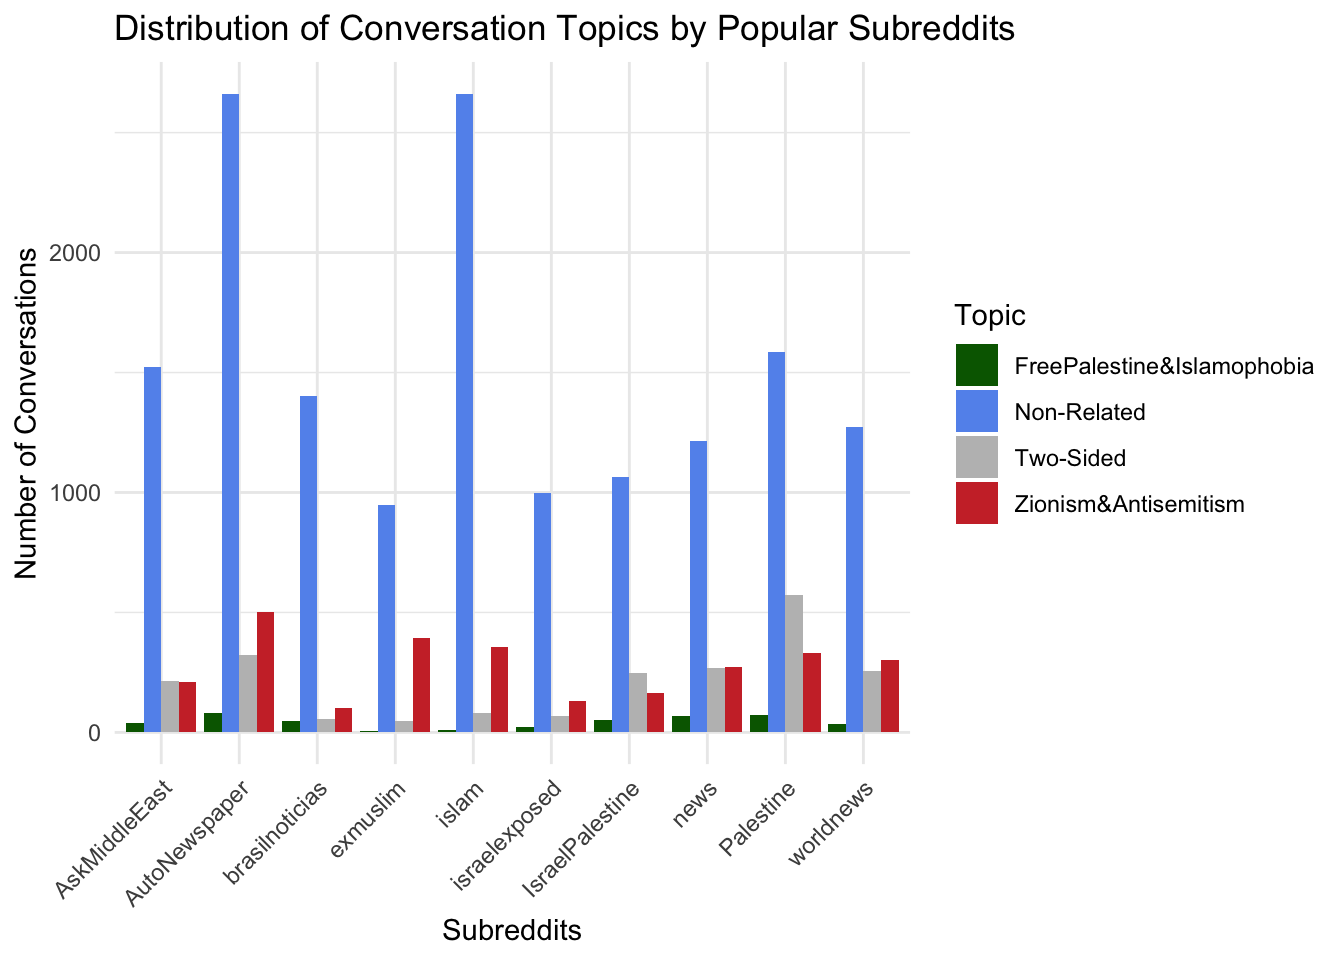
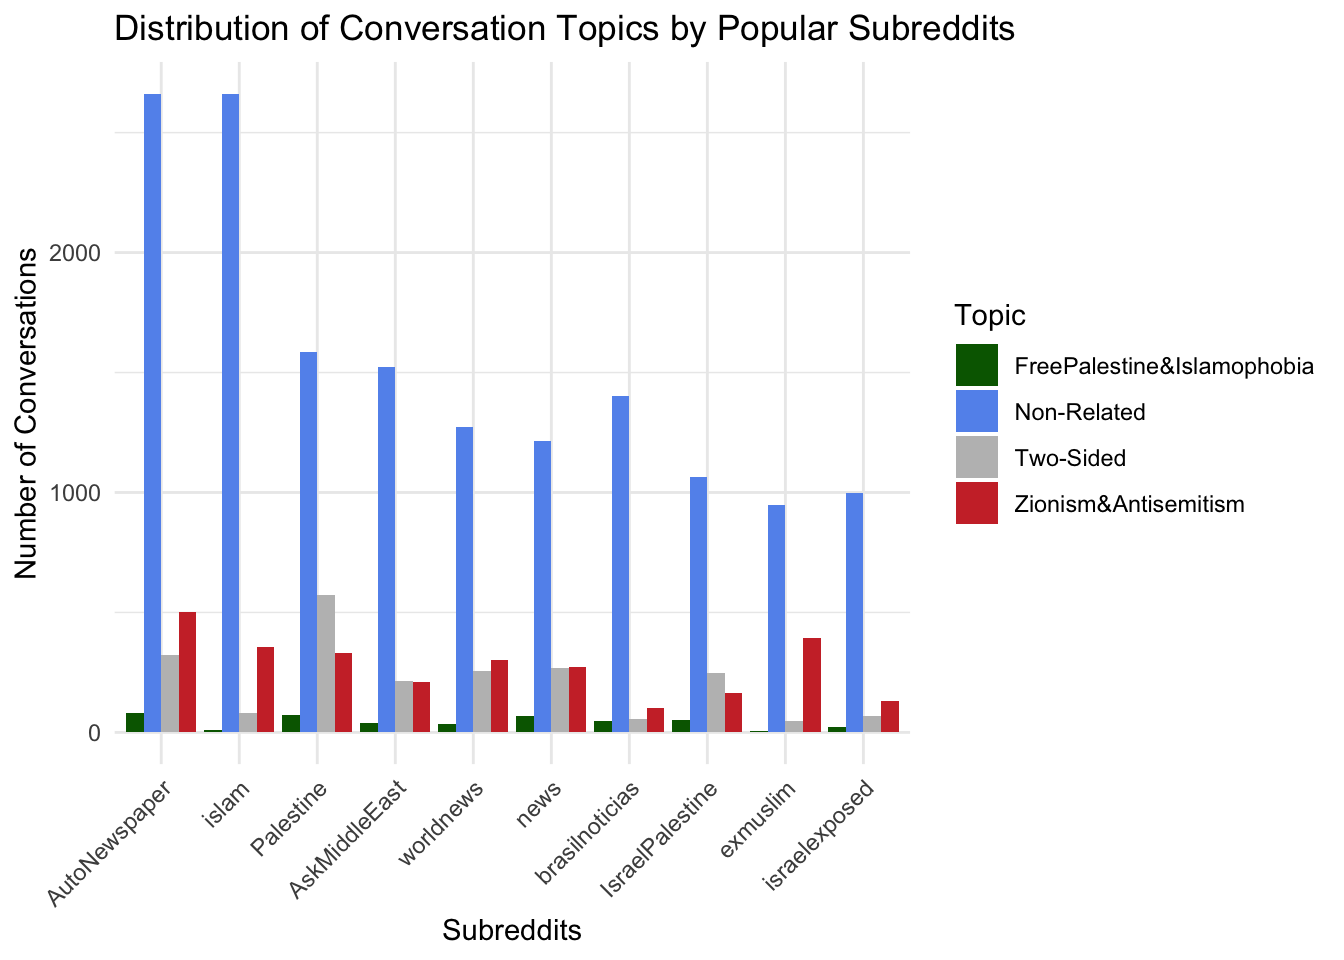
refactor: content

diff --git a/docs/results.html b/docs/results.html
@@ -324,7 +324,7 @@ pre > code.sourceCode > span > a:first-child::before { text-decoration: underlin
 <p>Overall, both submissions (dark blue) and unique users (light blue) show a dramatic rise starting October 7, 2023, corresponding to the Hamas surprise attack on Israel. The increase in unique users suggests the event attracted a broader audience, including those who might not typically engage with Israel-Palestine discussions.</p>
 <p>Submission activity remained elevated through October, even as unique user counts started to stabilize. This suggests that while overall participation plateaued, a subset of highly engaged users continued driving discussions.</p>
 <p>Both metrics begin to decline post-November, reflecting reduced activity as public interest waned, likely due to the normalization of the conflict or shifts in media coverage. The difference in the slopes of the two lines indicates that while fewer unique users contributed to the conversation, those who remained were responsible for a substantial number of posts.</p>
-<p>Overall, both submissions (red) and unique users (blue) show a dramatic rise starting October 7, 2023, corresponding to the Hamas surprise attack on Israel. The increase in unique users suggests the event attracted a broader audience, including those who might not typically engage with Israel-Palestine discussions.</p>
+<p>Overall, both submissions (dark blue) and unique users (light blue) show a dramatic rise starting October 7, 2023, corresponding to the Hamas surprise attack on Israel. The increase in unique users suggests the event attracted a broader audience, including those who might not typically engage with Israel-Palestine discussions.</p>
 <p>Submission activity remained elevated through October, even as unique user counts started to stabilize. This suggests that while overall participation plateaued, a subset of highly engaged users continued driving discussions.</p>
 <p>Both metrics begin to decline post-November, reflecting reduced activity as public interest waned, likely due to the normalization of the conflict or shifts in media coverage. The difference in the slopes of the two lines indicates that while fewer unique users contributed to the conversation, those who remained were responsible for a substantial number of posts.</p>
 </section>
@@ -546,7 +546,7 @@ pre > code.sourceCode > span > a:first-child::before { text-decoration: underlin
 </div>
 <p>The majority of submissions receive fewer than 5 comments, as evidenced by the sharp drop in frequency for higher comment counts. This indicates that most posts generate limited discussion, reflecting either lower visibility or less engaging content.</p>
 <p>A small but significant portion of submissions receives 30 or more comments, suggesting highly engaging or polarizing content that sparks extended discussions. This long tail reflects the disproportionate impact of certain posts in driving conversations.</p>
-<p>We used a logarithmic scale on the y-axis to highlight the exponential drop in frequency as comment counts increase. Without this transformation, the disparity between low-comment and high-comment submissions would be even more pronounced.</p>
+<p>We used a logarithmic scale on the y-axis to highlight the exponential drop in frequency as comment counts increase. Without this transformation, the disparity between low-comment and high-comment submissions would be less pronounced.</p>
 </section>
 <section id="finding-largest-subreddits-by-submissions-and-comments-count" class="level3" data-number="3.2.9">
 <h3 data-number="3.2.9" class="anchored" data-anchor-id="finding-largest-subreddits-by-submissions-and-comments-count"><span class="header-section-number">3.2.9</span> Finding Largest Subreddits by Submissions and Comments Count</h3>
@@ -798,22 +798,23 @@ pre > code.sourceCode > span > a:first-child::before { text-decoration: underlin
 <span id="cb17-7"><a href="#cb17-7" aria-hidden="true" tabindex="-1"></a>    freepalestine_islamophobia <span class="sc">==</span> <span class="dv">1</span> <span class="sc">&amp;</span> zionism_antisemitism <span class="sc">==</span> <span class="dv">1</span> <span class="sc">~</span> <span class="st">"Two-Sided"</span></span>
 <span id="cb17-8"><a href="#cb17-8" aria-hidden="true" tabindex="-1"></a>  )) <span class="sc">%&gt;%</span></span>
 <span id="cb17-9"><a href="#cb17-9" aria-hidden="true" tabindex="-1"></a>  <span class="fu">group_by</span>(subreddit, subset) <span class="sc">%&gt;%</span></span>
-<span id="cb17-10"><a href="#cb17-10" aria-hidden="true" tabindex="-1"></a>  <span class="fu">summarise</span>(<span class="at">count =</span> <span class="fu">n</span>(), <span class="at">.groups =</span> <span class="st">'drop'</span>)</span>
-<span id="cb17-11"><a href="#cb17-11" aria-hidden="true" tabindex="-1"></a></span>
-<span id="cb17-12"><a href="#cb17-12" aria-hidden="true" tabindex="-1"></a><span class="fu">ggplot</span>(subsets, <span class="fu">aes</span>(<span class="at">x =</span> subreddit, <span class="at">y =</span> count, <span class="at">fill =</span> subset)) <span class="sc">+</span></span>
-<span id="cb17-13"><a href="#cb17-13" aria-hidden="true" tabindex="-1"></a>  <span class="fu">geom_bar</span>(<span class="at">stat =</span> <span class="st">"identity"</span>, <span class="at">position =</span> <span class="st">"dodge"</span>) <span class="sc">+</span></span>
-<span id="cb17-14"><a href="#cb17-14" aria-hidden="true" tabindex="-1"></a>  <span class="fu">labs</span>(<span class="at">title =</span> <span class="st">"Distribution of Conversation Topics by Popular Subreddits"</span>,</span>
-<span id="cb17-15"><a href="#cb17-15" aria-hidden="true" tabindex="-1"></a>       <span class="at">x =</span> <span class="st">"Subreddits"</span>,</span>
-<span id="cb17-16"><a href="#cb17-16" aria-hidden="true" tabindex="-1"></a>       <span class="at">y =</span> <span class="st">"Number of Conversations"</span>,</span>
-<span id="cb17-17"><a href="#cb17-17" aria-hidden="true" tabindex="-1"></a>       <span class="at">fill =</span> <span class="st">"Topic"</span>) <span class="sc">+</span></span>
-<span id="cb17-18"><a href="#cb17-18" aria-hidden="true" tabindex="-1"></a>  <span class="fu">scale_fill_manual</span>(<span class="at">values =</span> <span class="fu">c</span>(</span>
-<span id="cb17-19"><a href="#cb17-19" aria-hidden="true" tabindex="-1"></a>    <span class="st">"FreePalestine&amp;Islamophobia"</span> <span class="ot">=</span> <span class="st">"darkgreen"</span>,</span>
-<span id="cb17-20"><a href="#cb17-20" aria-hidden="true" tabindex="-1"></a>    <span class="st">"Zionism&amp;Antisemitism"</span> <span class="ot">=</span> <span class="st">"brown3"</span>,</span>
-<span id="cb17-21"><a href="#cb17-21" aria-hidden="true" tabindex="-1"></a>    <span class="st">"Non-Related"</span> <span class="ot">=</span> <span class="st">"cornflowerblue"</span>,</span>
-<span id="cb17-22"><a href="#cb17-22" aria-hidden="true" tabindex="-1"></a>    <span class="st">"Two-Sided"</span> <span class="ot">=</span> <span class="st">"gray"</span></span>
-<span id="cb17-23"><a href="#cb17-23" aria-hidden="true" tabindex="-1"></a>  )) <span class="sc">+</span></span>
-<span id="cb17-24"><a href="#cb17-24" aria-hidden="true" tabindex="-1"></a>  <span class="fu">theme_minimal</span>() <span class="sc">+</span></span>
-<span id="cb17-25"><a href="#cb17-25" aria-hidden="true" tabindex="-1"></a>  <span class="fu">theme</span>(<span class="at">axis.text.x =</span> <span class="fu">element_text</span>(<span class="at">angle =</span> <span class="dv">45</span>, <span class="at">hjust =</span> <span class="dv">1</span>))</span></code><button title="Copy to Clipboard" class="code-copy-button"><i class="bi"></i></button></pre></div>
+<span id="cb17-10"><a href="#cb17-10" aria-hidden="true" tabindex="-1"></a>  <span class="fu">summarise</span>(<span class="at">count =</span> <span class="fu">n</span>(), <span class="at">.groups =</span> <span class="st">'drop'</span>) <span class="sc">%&gt;%</span></span>
+<span id="cb17-11"><a href="#cb17-11" aria-hidden="true" tabindex="-1"></a>  <span class="fu">mutate</span>(<span class="at">subreddit =</span> <span class="fu">reorder</span>(subreddit, <span class="sc">-</span>count, sum))</span>
+<span id="cb17-12"><a href="#cb17-12" aria-hidden="true" tabindex="-1"></a></span>
+<span id="cb17-13"><a href="#cb17-13" aria-hidden="true" tabindex="-1"></a><span class="fu">ggplot</span>(subsets, <span class="fu">aes</span>(<span class="at">x =</span> subreddit, <span class="at">y =</span> count, <span class="at">fill =</span> subset)) <span class="sc">+</span></span>
+<span id="cb17-14"><a href="#cb17-14" aria-hidden="true" tabindex="-1"></a>  <span class="fu">geom_bar</span>(<span class="at">stat =</span> <span class="st">"identity"</span>, <span class="at">position =</span> <span class="st">"dodge"</span>) <span class="sc">+</span></span>
+<span id="cb17-15"><a href="#cb17-15" aria-hidden="true" tabindex="-1"></a>  <span class="fu">labs</span>(<span class="at">title =</span> <span class="st">"Distribution of Conversation Topics by Popular Subreddits"</span>,</span>
+<span id="cb17-16"><a href="#cb17-16" aria-hidden="true" tabindex="-1"></a>       <span class="at">x =</span> <span class="st">"Subreddits"</span>,</span>
+<span id="cb17-17"><a href="#cb17-17" aria-hidden="true" tabindex="-1"></a>       <span class="at">y =</span> <span class="st">"Number of Conversations"</span>,</span>
+<span id="cb17-18"><a href="#cb17-18" aria-hidden="true" tabindex="-1"></a>       <span class="at">fill =</span> <span class="st">"Topic"</span>) <span class="sc">+</span></span>
+<span id="cb17-19"><a href="#cb17-19" aria-hidden="true" tabindex="-1"></a>  <span class="fu">scale_fill_manual</span>(<span class="at">values =</span> <span class="fu">c</span>(</span>
+<span id="cb17-20"><a href="#cb17-20" aria-hidden="true" tabindex="-1"></a>    <span class="st">"FreePalestine&amp;Islamophobia"</span> <span class="ot">=</span> <span class="st">"darkgreen"</span>,</span>
+<span id="cb17-21"><a href="#cb17-21" aria-hidden="true" tabindex="-1"></a>    <span class="st">"Zionism&amp;Antisemitism"</span> <span class="ot">=</span> <span class="st">"brown3"</span>,</span>
+<span id="cb17-22"><a href="#cb17-22" aria-hidden="true" tabindex="-1"></a>    <span class="st">"Non-Related"</span> <span class="ot">=</span> <span class="st">"cornflowerblue"</span>,</span>
+<span id="cb17-23"><a href="#cb17-23" aria-hidden="true" tabindex="-1"></a>    <span class="st">"Two-Sided"</span> <span class="ot">=</span> <span class="st">"gray"</span></span>
+<span id="cb17-24"><a href="#cb17-24" aria-hidden="true" tabindex="-1"></a>  )) <span class="sc">+</span></span>
+<span id="cb17-25"><a href="#cb17-25" aria-hidden="true" tabindex="-1"></a>  <span class="fu">theme_minimal</span>() <span class="sc">+</span></span>
+<span id="cb17-26"><a href="#cb17-26" aria-hidden="true" tabindex="-1"></a>  <span class="fu">theme</span>(<span class="at">axis.text.x =</span> <span class="fu">element_text</span>(<span class="at">angle =</span> <span class="dv">45</span>, <span class="at">hjust =</span> <span class="dv">1</span>))</span></code><button title="Copy to Clipboard" class="code-copy-button"><i class="bi"></i></button></pre></div>
 </details>
 <div class="cell-output-display">
 <div>
@@ -835,21 +836,22 @@ pre > code.sourceCode > span > a:first-child::before { text-decoration: underlin
 <span id="cb18-7"><a href="#cb18-7" aria-hidden="true" tabindex="-1"></a>    freepalestine_islamophobia <span class="sc">==</span> <span class="dv">1</span> <span class="sc">&amp;</span> zionism_antisemitism <span class="sc">==</span> <span class="dv">1</span> <span class="sc">~</span> <span class="st">"Two-Sided"</span></span>
 <span id="cb18-8"><a href="#cb18-8" aria-hidden="true" tabindex="-1"></a>  )) <span class="sc">%&gt;%</span></span>
 <span id="cb18-9"><a href="#cb18-9" aria-hidden="true" tabindex="-1"></a>  <span class="fu">group_by</span>(subreddit, subset) <span class="sc">%&gt;%</span></span>
-<span id="cb18-10"><a href="#cb18-10" aria-hidden="true" tabindex="-1"></a>  <span class="fu">summarise</span>(<span class="at">count =</span> <span class="fu">n</span>(), <span class="at">.groups =</span> <span class="st">'drop'</span>)</span>
-<span id="cb18-11"><a href="#cb18-11" aria-hidden="true" tabindex="-1"></a></span>
-<span id="cb18-12"><a href="#cb18-12" aria-hidden="true" tabindex="-1"></a><span class="fu">ggplot</span>(subsets, <span class="fu">aes</span>(<span class="at">x =</span> subreddit, <span class="at">y =</span> count, <span class="at">fill =</span> subset)) <span class="sc">+</span></span>
-<span id="cb18-13"><a href="#cb18-13" aria-hidden="true" tabindex="-1"></a>  <span class="fu">geom_bar</span>(<span class="at">stat =</span> <span class="st">"identity"</span>, <span class="at">position =</span> <span class="st">"dodge"</span>) <span class="sc">+</span></span>
-<span id="cb18-14"><a href="#cb18-14" aria-hidden="true" tabindex="-1"></a>  <span class="fu">labs</span>(<span class="at">title =</span> <span class="st">"Distribution of Conversation Topics by Popular Subreddits"</span>,</span>
-<span id="cb18-15"><a href="#cb18-15" aria-hidden="true" tabindex="-1"></a>       <span class="at">x =</span> <span class="st">"Subreddits"</span>,</span>
-<span id="cb18-16"><a href="#cb18-16" aria-hidden="true" tabindex="-1"></a>       <span class="at">y =</span> <span class="st">"Number of Conversations"</span>,</span>
-<span id="cb18-17"><a href="#cb18-17" aria-hidden="true" tabindex="-1"></a>       <span class="at">fill =</span> <span class="st">"Topic"</span>) <span class="sc">+</span></span>
-<span id="cb18-18"><a href="#cb18-18" aria-hidden="true" tabindex="-1"></a>  <span class="fu">scale_fill_manual</span>(<span class="at">values =</span> <span class="fu">c</span>(</span>
-<span id="cb18-19"><a href="#cb18-19" aria-hidden="true" tabindex="-1"></a>    <span class="st">"FreePalestine&amp;Islamophobia"</span> <span class="ot">=</span> <span class="st">"darkgreen"</span>,</span>
-<span id="cb18-20"><a href="#cb18-20" aria-hidden="true" tabindex="-1"></a>    <span class="st">"Zionism&amp;Antisemitism"</span> <span class="ot">=</span> <span class="st">"brown3"</span>,</span>
-<span id="cb18-21"><a href="#cb18-21" aria-hidden="true" tabindex="-1"></a>    <span class="st">"Two-Sided"</span> <span class="ot">=</span> <span class="st">"gray"</span></span>
-<span id="cb18-22"><a href="#cb18-22" aria-hidden="true" tabindex="-1"></a>  )) <span class="sc">+</span></span>
-<span id="cb18-23"><a href="#cb18-23" aria-hidden="true" tabindex="-1"></a>  <span class="fu">theme_minimal</span>() <span class="sc">+</span></span>
-<span id="cb18-24"><a href="#cb18-24" aria-hidden="true" tabindex="-1"></a>  <span class="fu">theme</span>(<span class="at">axis.text.x =</span> <span class="fu">element_text</span>(<span class="at">angle =</span> <span class="dv">45</span>, <span class="at">hjust =</span> <span class="dv">1</span>))</span></code><button title="Copy to Clipboard" class="code-copy-button"><i class="bi"></i></button></pre></div>
+<span id="cb18-10"><a href="#cb18-10" aria-hidden="true" tabindex="-1"></a>  <span class="fu">summarise</span>(<span class="at">count =</span> <span class="fu">n</span>(), <span class="at">.groups =</span> <span class="st">'drop'</span>) <span class="sc">%&gt;%</span> </span>
+<span id="cb18-11"><a href="#cb18-11" aria-hidden="true" tabindex="-1"></a>  <span class="fu">mutate</span>(<span class="at">subreddit =</span> <span class="fu">reorder</span>(subreddit, <span class="sc">-</span>count, sum))</span>
+<span id="cb18-12"><a href="#cb18-12" aria-hidden="true" tabindex="-1"></a></span>
+<span id="cb18-13"><a href="#cb18-13" aria-hidden="true" tabindex="-1"></a><span class="fu">ggplot</span>(subsets, <span class="fu">aes</span>(<span class="at">x =</span> subreddit, <span class="at">y =</span> count, <span class="at">fill =</span> subset)) <span class="sc">+</span></span>
+<span id="cb18-14"><a href="#cb18-14" aria-hidden="true" tabindex="-1"></a>  <span class="fu">geom_bar</span>(<span class="at">stat =</span> <span class="st">"identity"</span>, <span class="at">position =</span> <span class="st">"dodge"</span>) <span class="sc">+</span></span>
+<span id="cb18-15"><a href="#cb18-15" aria-hidden="true" tabindex="-1"></a>  <span class="fu">labs</span>(<span class="at">title =</span> <span class="st">"Distribution of Conversation Topics by Popular Subreddits"</span>,</span>
+<span id="cb18-16"><a href="#cb18-16" aria-hidden="true" tabindex="-1"></a>       <span class="at">x =</span> <span class="st">"Subreddits"</span>,</span>
+<span id="cb18-17"><a href="#cb18-17" aria-hidden="true" tabindex="-1"></a>       <span class="at">y =</span> <span class="st">"Number of Conversations"</span>,</span>
+<span id="cb18-18"><a href="#cb18-18" aria-hidden="true" tabindex="-1"></a>       <span class="at">fill =</span> <span class="st">"Topic"</span>) <span class="sc">+</span></span>
+<span id="cb18-19"><a href="#cb18-19" aria-hidden="true" tabindex="-1"></a>  <span class="fu">scale_fill_manual</span>(<span class="at">values =</span> <span class="fu">c</span>(</span>
+<span id="cb18-20"><a href="#cb18-20" aria-hidden="true" tabindex="-1"></a>    <span class="st">"FreePalestine&amp;Islamophobia"</span> <span class="ot">=</span> <span class="st">"darkgreen"</span>,</span>
+<span id="cb18-21"><a href="#cb18-21" aria-hidden="true" tabindex="-1"></a>    <span class="st">"Zionism&amp;Antisemitism"</span> <span class="ot">=</span> <span class="st">"brown3"</span>,</span>
+<span id="cb18-22"><a href="#cb18-22" aria-hidden="true" tabindex="-1"></a>    <span class="st">"Two-Sided"</span> <span class="ot">=</span> <span class="st">"gray"</span></span>
+<span id="cb18-23"><a href="#cb18-23" aria-hidden="true" tabindex="-1"></a>  )) <span class="sc">+</span></span>
+<span id="cb18-24"><a href="#cb18-24" aria-hidden="true" tabindex="-1"></a>  <span class="fu">theme_minimal</span>() <span class="sc">+</span></span>
+<span id="cb18-25"><a href="#cb18-25" aria-hidden="true" tabindex="-1"></a>  <span class="fu">theme</span>(<span class="at">axis.text.x =</span> <span class="fu">element_text</span>(<span class="at">angle =</span> <span class="dv">45</span>, <span class="at">hjust =</span> <span class="dv">1</span>))</span></code><button title="Copy to Clipboard" class="code-copy-button"><i class="bi"></i></button></pre></div>
 </details>
 <div class="cell-output-display">
 <div>
@@ -904,7 +906,7 @@ pre > code.sourceCode > span > a:first-child::before { text-decoration: underlin
 </div>
 </div>
 </div>
-<p>The mosaic plot shows that “Non-Related” topics dominate conversations, with most comments being non-controversial. Controversial comments are sparse across all topics, and related topics like “Zionism&amp;Antisemitism” and “Two-Sided” have significantly fewer conversations overall. “Controversial” comments (1) are sparse across all conversation topics, suggesting limited polarizing discussions.</p>
+<p>The mosaic plot shows that “Non-Related” topics dominate conversations, with most comments being non-controversial. Controversial comments are sparse across all topics, and related topics like “Zionism&amp;Antisemitism” and “Two-Sided” have significantly fewer conversations overall. “Controversial” comments are sparse across all conversation topics, suggesting limited polarizing discussions.</p>
 
 
 </section>

diff --git a/docs/d3graph.html b/docs/d3graph.html
@@ -203,15 +203,7 @@ Volume of Comments by Different Subreddits
 <div>
 <p><button id="addButton">Add Next Most Popular Subreddit</button> <button id="removeButton">Remove Least Popular Subreddit</button></p>
 </div>
-<p>An interactive temporal chart of comments volume per subreddit helps analyze your project by:</p>
-<ul>
-<li>Identifying Trends: Visualizing spikes and dips in comment activity over time highlights key events and changes in interest.</li>
-<li>Correlating with Events: Aligning comment trends with external events reveals how Reddit responds to real-world happenings.</li>
-<li>Subreddit Behavior: Comparing subreddits uncovers which are most active, act as “early responders,” or sustain long-term engagement.</li>
-<li>Dynamic Exploration: Interactivity allows filtering by time or subreddit, focusing on specific periods or communities for deeper insights.</li>
-<li>Testing Hypotheses: Validates assumptions, such as which subreddits lead discussions or whether engagement aligns with media trends.</li>
-</ul>
-<p>This chart transforms raw data into actionable insights by showing how discussions evolve and differ across subreddits.</p>
+<p>An interactive temporal chart of comments volume per subreddit helps analyze your project by visualizing spikes and dips in comment activity over time highlights key events and changes in interest. It helps us in comparing subreddits to uncover which are most active within the scope of this political and humanitarian conflict</p>
 <script src="https://cdn.jsdelivr.net/npm/d3@7"></script>
 <script src="scripts/myscript.js"></script>
 
